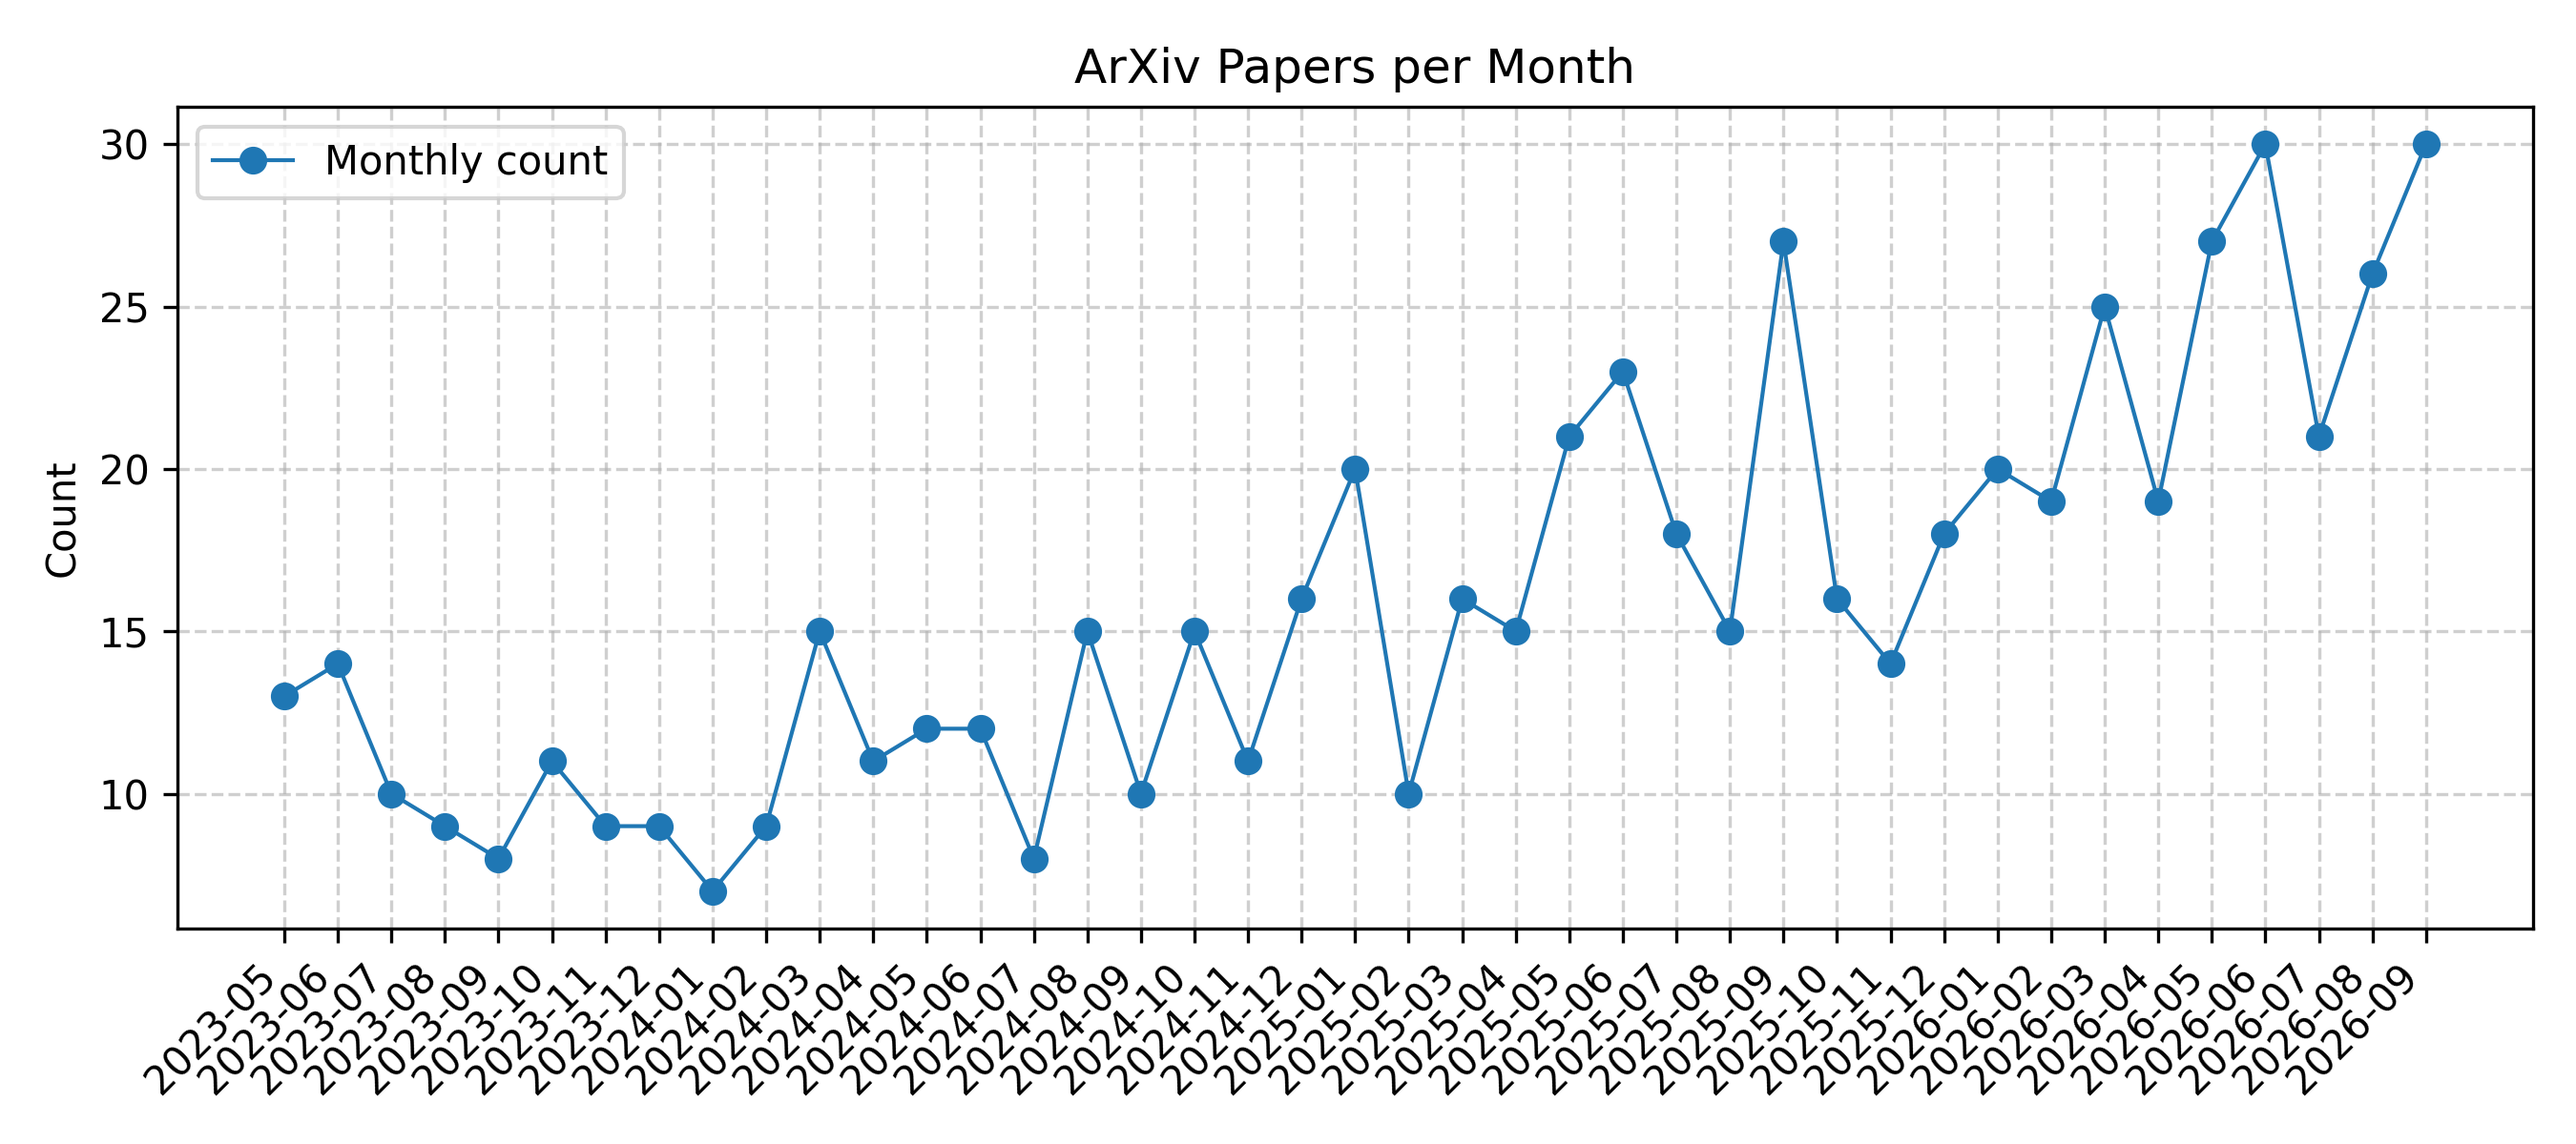
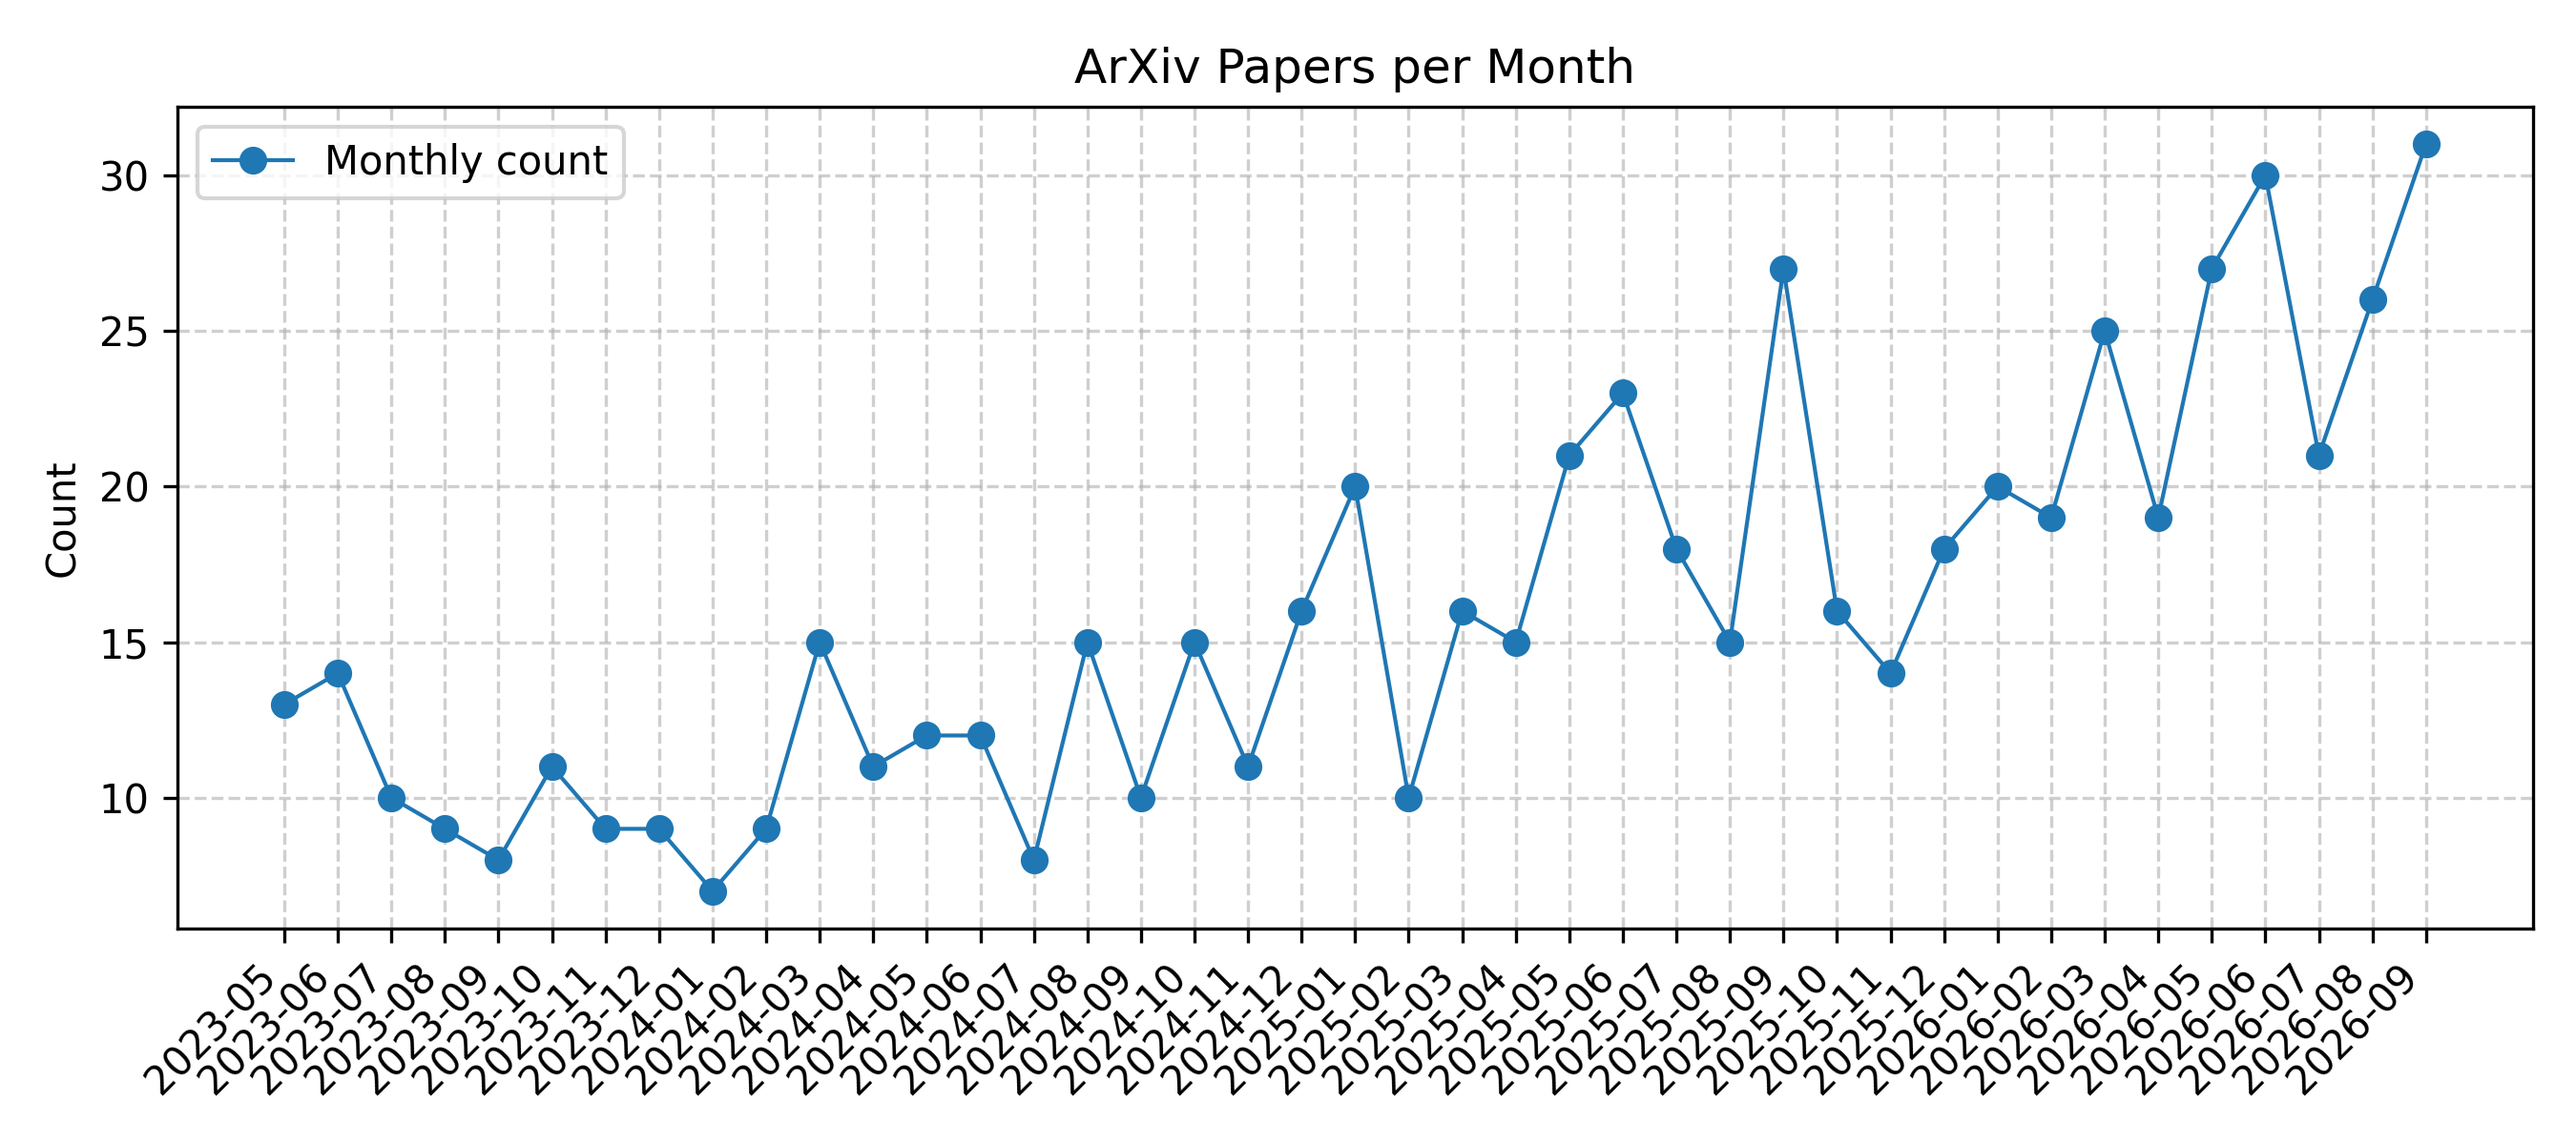
Github Action Automatic Update Diffusion NLP Arxiv Papers

diff --git a/README.md b/README.md
@@ -5,16 +5,17 @@
 
 This repository tracks the latest GraphRAG related papers from arXiv.
 
-## Updated on 2026.09.30
+## Updated on 2026.10.01
 
 ![Monthly Trend](imgs/trend.png)
 
 ## Recent Month Summary (2026-09)
 
-**30 paper(s)** submitted in 2026-09.
+**31 paper(s)** submitted in 2026-09.
 
 |Date|Title|PDF|Code|
 |---|---|---|---|
+|**2026-09-30**|**GraphCert: Bootstrap Agentic Graph Reasoning with Certified Evidence Rubrics**|[2609.38798v1](http://arxiv.org/abs/2609.38798v1)| null|
 |**2026-09-29**|**Corpus-Guided Dual-Path Propagation for Graph Retrieval-Augmented Generation**|[2609.37661v1](http://arxiv.org/abs/2609.37661v1)| **[code](https://github.com/Jacob-biu/NexusRAG)**|
 |**2026-09-28**|**Signal or Noise? Modality Contribution and Cooperation in Multimodal GraphRAG**|[2609.35304v1](http://arxiv.org/abs/2609.35304v1)| null|
 |**2026-08-31**|**EvLink: Source-Grounded Evidence Linking for Graph RAG**|[2609.29695v1](http://arxiv.org/abs/2609.29695v1)| null|
@@ -50,6 +51,7 @@ This repository tracks the latest GraphRAG related papers from arXiv.
 
 |Date|Title|PDF|Code|
 |---|---|---|---|
+|**2026-09-30**|**GraphCert: Bootstrap Agentic Graph Reasoning with Certified Evidence Rubrics**|[2609.38798v1](http://arxiv.org/abs/2609.38798v1)| null|
 |**2026-09-29**|**Corpus-Guided Dual-Path Propagation for Graph Retrieval-Augmented Generation**|[2609.37661v1](http://arxiv.org/abs/2609.37661v1)| **[code](https://github.com/Jacob-biu/NexusRAG)**|
 |**2026-09-28**|**Signal or Noise? Modality Contribution and Cooperation in Multimodal GraphRAG**|[2609.35304v1](http://arxiv.org/abs/2609.35304v1)| null|
 |**2026-08-31**|**EvLink: Source-Grounded Evidence Linking for Graph RAG**|[2609.29695v1](http://arxiv.org/abs/2609.29695v1)| null|
@@ -705,7 +707,7 @@ This repository tracks the latest GraphRAG related papers from arXiv.
 |**2024-03-04**|**Pre-trained Language Model with Prompts for Temporal Knowledge Graph Completion**|[2305.07912v2](http://arxiv.org/abs/2305.07912v2)| null|
 |**2023-09-20**|**ACTC: Active Threshold Calibration for Cold-Start Knowledge Graph Completion**|[2305.06395v3](http://arxiv.org/abs/2305.06395v3)| null|
 
-<p align=right>(<a href=#Updated-on-20260930>back to top</a>)</p>
+<p align=right>(<a href=#Updated-on-20261001>back to top</a>)</p>
 
 [contributors-shield]: https://img.shields.io/github/contributors/bansky-cl/graphrag-arxiv-daily-paper.svg?style=for-the-badge
 [contributors-url]: https://github.com/bansky-cl/graphrag-arxiv-daily-paper/graphs/contributors
